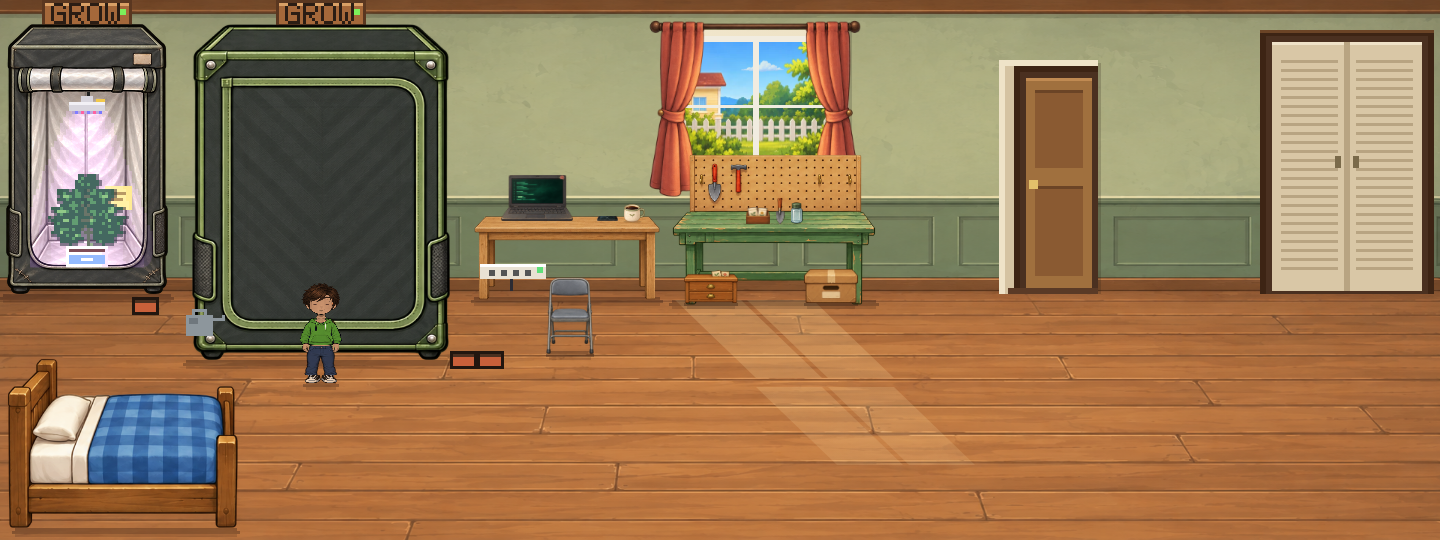
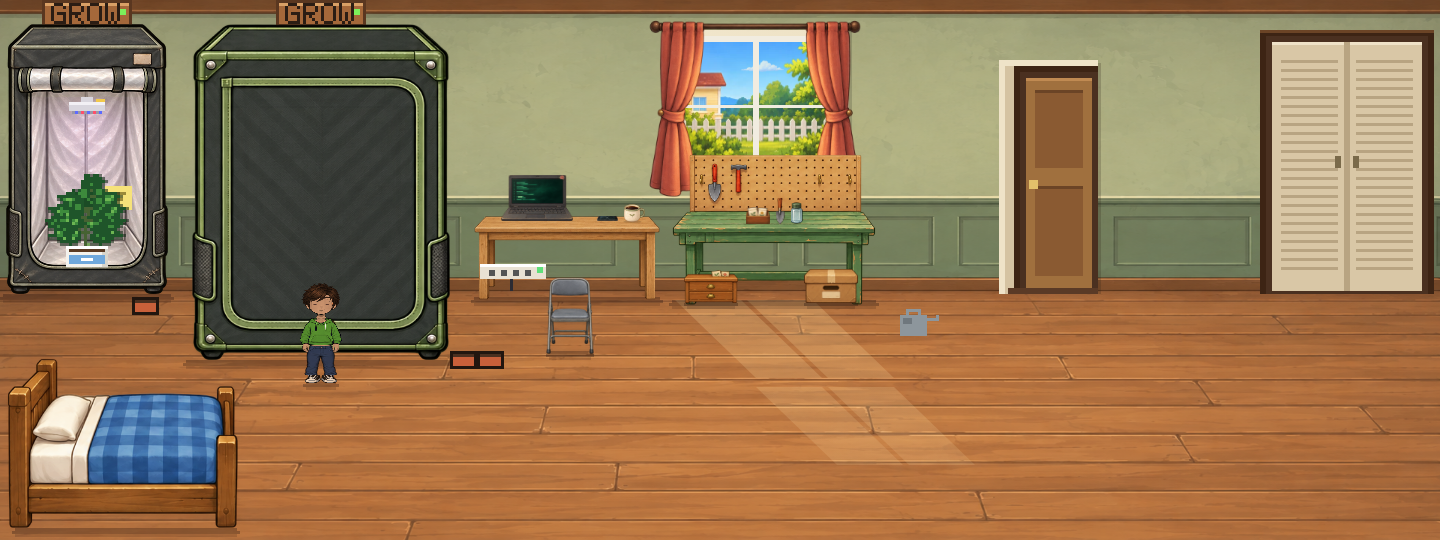
Refine tent sample layering, diffusion and watering placement

Changed region(s): [[0.0, 0.2074, 0.125, 0.5037], [0.625, 0.563, 0.6562, 0.6222], [0.125, 0.563, 0.1562, 0.6222]]

diff --git a/graphics/tents/width-swap/sources/layout-proposal.js b/graphics/tents/width-swap/sources/layout-proposal.js
@@ -5,7 +5,26 @@
   SLOT_POS.closet=[[29,92]];SLOT_POS.tent2=[[87,114],[127,114]];
   Object.assign(DEV_POS.closet,{light:[29,34],exhaust:[42,22],fan:[45,48],humid:[15,96],sensor:[35,62],ctrl:[7,46],dehum:[57,100],heater:[5,101]});
   Object.assign(DEV_POS.tent2,{light:[107,39],exhaust:[81,26],fan:[132,50],humid:[86,108],sensor:[122,66]});
-  const solids=SCENES.bedroom.solids,statics=DecoZ.statics;
+  const solids=SCENES.bedroom.solids,statics=DecoZ.statics,access=DecoZ.access,can=Gear.can,hit=RoomArt.hit;
   SCENES.bedroom.solids=function(){return solids.call(this).map(r=>r[0]===90&&r[1]===104&&r[2]===64?[64,104,86,18]:r);};
-  DecoZ.statics=function(zone){return statics.call(this,zone).map(r=>zone==='bedroom'&&r[4]==='the starter tent'?[2,r[1],54,r[3],r[4]]:zone==='bedroom'&&r[4]==='the tent'?[64,r[1],86,r[3],r[4]]:r);};
+  DecoZ.statics=function(zone){return statics.call(this,zone).map(r=>zone==='bedroom'&&r[4]==='the starter tent'?[2,r[1],54,r[3],r[4]]:zone==='bedroom'&&r[4]==='the tent'?[64,r[1],86,r[3],r[4]]:zone==='bedroom'&&r[4]==='the watering can'?[298,r[1],r[2],r[3],r[4]]:r);};
+  // The can and purchased reservoir share this bedroom floor position.
+  Gear.can=function(c,x,y,...args){if(x===62&&y===103)x=300;return can.call(this,c,x,y,...args);};
+  RoomArt.hit=function(id,x,y,w,h,label,walk,layer){if(id==='can'){x+=238;if(walk)walk=[walk[0]+238,walk[1]];}return hit.call(this,id,x,y,w,h,label,walk,layer);};
+  DecoZ.access=function(zone){return access.call(this,zone).map(r=>zone==='bedroom'&&r[2]==='the watering can'?[308,118,r[2],r[3],[300,112,16,10]]:r);};
+  // Soft reflected light is part of each tent, behind its contents and fabric.
+  window.tentProposalDiffusion=function(c,loc,t){
+    const L=state.locations[loc],n=L.equip.light;
+    if(!n||!isLightOn(loc)||(state.fail.flicker&&!settings.reduced&&Math.sin(t*23)>.6))return;
+    const [x,y]=DEV_POS[loc].light,box=loc==='closet'?STARTER_BOX:T2_BOX,bottom=box[1]+box[3]*.9;
+    const rgb=Gear.glowColor(n).slice(1).match(/../g).map(v=>parseInt(v,16)),a=n>=3?.11:.17;
+    const cv=document.createElement('canvas');cv.width=box[2]*3;cv.height=box[3]*3;
+    const g=cv.getContext('2d');g.scale(3,3);g.translate(-box[0],-box[1]);
+    const top=y-6,glow=g.createLinearGradient(0,top,0,bottom);
+    glow.addColorStop(0,`rgba(${rgb.join(',')},0)`);glow.addColorStop(.2,`rgba(${rgb.join(',')},${a})`);glow.addColorStop(.65,`rgba(${rgb.join(',')},${a*.55})`);glow.addColorStop(1,`rgba(${rgb.join(',')},0)`);
+    g.fillStyle=glow;g.fillRect(box[0],top,box[2],bottom-top);
+    g.globalCompositeOperation='destination-in';const sides=g.createLinearGradient(box[0],0,box[0]+box[2],0);
+    sides.addColorStop(0,'transparent');sides.addColorStop(.5,'#fff');sides.addColorStop(1,'transparent');g.fillStyle=sides;g.fillRect(box[0],box[1],box[2],box[3]);
+    c.drawImage(cv,box[0],box[1],box[2],box[3]);
+  };
 })();

diff --git a/graphics/tents/2x2/sources/proposal.js b/graphics/tents/2x2/sources/proposal.js
@@ -34,6 +34,7 @@
     if(dp<1){
       c.save();c.clip(opening(new Path2D(),X,Y,W,H));
       try{
+        tentProposalDiffusion(c,'tent2',t);
         Gear.light(c,P.light[0],P.light[1]+DATA.lightVisualOffsetY,e.light,on,t);
         Gear.filter(c,P.exhaust[0],P.exhaust[1],e.exhaust,exMul(L)>0,t);
         runtime.fanSpdHint=e.fan>=2?[.6,1,1.4][L.fanSpeed-1]:1;try{Gear.fan(c,P.fan[0],P.fan[1],e.fan,t,fanMul(L)>0);}finally{runtime.fanSpdHint=1;}
@@ -49,7 +50,8 @@
       for(const k of ['light','exhaust','fan','humid','sensor']){const n=e[k];if(!n&&k!=='sensor')continue;const[x,py]=P[k],y=py+(k==='light'?DATA.lightVisualOffsetY:k==='humid'?DATA.humidVisualOffsetY:0),b={light:[-22,-7,44,12],exhaust:[-7,-12,14,30],fan:[-6,-6,12,14],humid:[-7,-14,14,15],sensor:[-1,-1,14,12]}[k];this.hit(k+':tent2',x+b[0],y+b[1],b[2],b[3],k==='sensor'&&!n?'Climate check (hand)':EQ[k][n].name,null,'equip');}
     }
   };
-  RoomArt.growEffectMasks.tent2=function(c,dp){if(!supported())return;c.clip(opening(new Path2D(),X,Y,W,H));if(dp>0){const top=Y+H*(.10+.85*Math.round(dp*8)/8);c.beginPath();c.rect(X,top,W,Math.max(0,Y+H-top));c.clip();}};
+  // The legacy room beam uses fixed old bounds. Local diffusion above replaces it.
+  RoomArt.growEffectMasks.tent2=function(c){if(!supported())return;c.beginPath();c.rect(0,0,0,0);c.clip();};
   ShellArt.icon=function(c,cv,size,tier){if(size!=='tent2'||!loaded||!DATA.tiers[tier])return icon.call(this,c,cv,size,tier);cv.width=320;cv.height=240;c.fillStyle='#1a2420';c.fillRect(0,0,320,240);const h=216,w=h*W/H;sprite(c,tier,true,(320-w)/2,12,w,h);};
   drawExtraIcon=function(c,cv,id){if(id==='tent2'&&loaded)return ShellArt.icon(c,cv,'tent2','standard');return extra.call(this,c,cv,id);};
   drawLocIcon=function(c,cv,id,locked){if(id!=='tent2'||!supported())return locIcon.call(this,c,cv,id,locked);c.fillStyle='#1f2a24';c.fillRect(0,0,cv.width,cv.height);const h=cv.height-8,w=h*W/H;sprite(c,Shell.of('tent2').tier,true,(cv.width-w)/2,4,w,h);};

diff --git a/review/tents-2x2/STATUS.md b/review/tents-2x2/STATUS.md
@@ -1,4 +1,4 @@
-# 2×2 designs and width swap — awaiting revised proportion approval
+# 2×2 designs and width swap — awaiting revised sample approval
 
 The user approved the three 2×2 designs, then asked to swap the starter and 2×2 widths because the two-plant tent should be wider. The current preview has a 54-wide starter and an 86-wide 2×2. Original heights remain, and the 2×2 shifts left into the space freed by the starter so its right edge remains clear of the desk. The two existing starter shells also have narrower artwork.
 
@@ -7,3 +7,11 @@ width-comparison.png shows both tents at the same game scale with one and two li
 The isolated browser preview uses public/index.html. The helper verifies live grow contents, aligned visual targets and retained walk destinations, 36 equipment/pot/shell layering combinations, 36 player approach cases across open/closed and day/night, nine zip frames per shell, all three store cards and a mobile card. Detailed results: report.json.
 
 No production files are changed or pushed. The proposal sources, original images, crops and preview helper are saved locally for review and later integration. Comprehensive production collision/placement/save integration will follow approval of these revised proportions.
+
+## Follow-up corrections
+
+The narrowed starter now uses its own opening proportions (.15–.85 of the width, ceiling at .27 of the height), so plant contents stay behind the front fabric. Both tents use soft reflected illumination within their local opening instead of the old room beam with fixed bounds. This keeps the wider 2×2 free of a clipped purple wedge; the local glow respects light power, flicker and the foreground/zip layers.
+
+The bedroom watering can and its purchased drip-reservoir replacement move from x62 to x300 at the same floor depth, to the right of the seedling desk. Their shared click target, placement footprint and access reservation move with them. All four watering tiers are checked. watering-placement.png shows the ordinary can and upgraded tank separately; width-comparison.png shows the corrected tent contents and lighting.
+
+The preview checks now also cover both starter shells open/closed with marker content hidden by the roof, sides and bottom fabric. No production files changed; these revisions are saved locally pending sample approval.

diff --git a/graphics/tents/width-swap/README.md b/graphics/tents/width-swap/README.md
@@ -3,3 +3,5 @@
 Requested by the user while reviewing the 2×2 designs: swap the two tent widths. The starter becomes a narrow 54×90 single-plant tent, and the 2×2 becomes 86×112. The approved starter's Budget/Standard construction details remain, with newly generated narrower artwork. assets/starter-atlas.png is preserved unchanged; crops, dimensions and checksum are in sources/manifest.json.
 
 sources/layout-proposal.js is used only by the isolated 2×2 preview. It updates the two bounding arrays, slot/equipment anchors and representative solid/decor footprints within that browser. The starter renderer is instantiated from the current verified source using the revised art, ceiling and bounds; the production renderer files are untouched. See ../2x2/README.md for the preview command and the remaining integration work after approval.
+
+The follow-up prototype also moves the shared bedroom watering item and its interaction/placement/access metadata to the right of the seedling desk (x300, y103). The four existing watering tiers use the same location. Soft light is drawn inside the tent before contents and front fabric; legacy fixed-width room beams are suppressed for these two proposal renderers. The narrowed starter opening is adapted to the regenerated canvas, including roof, side and floor masks. These are isolated review changes, not runtime production integration.
